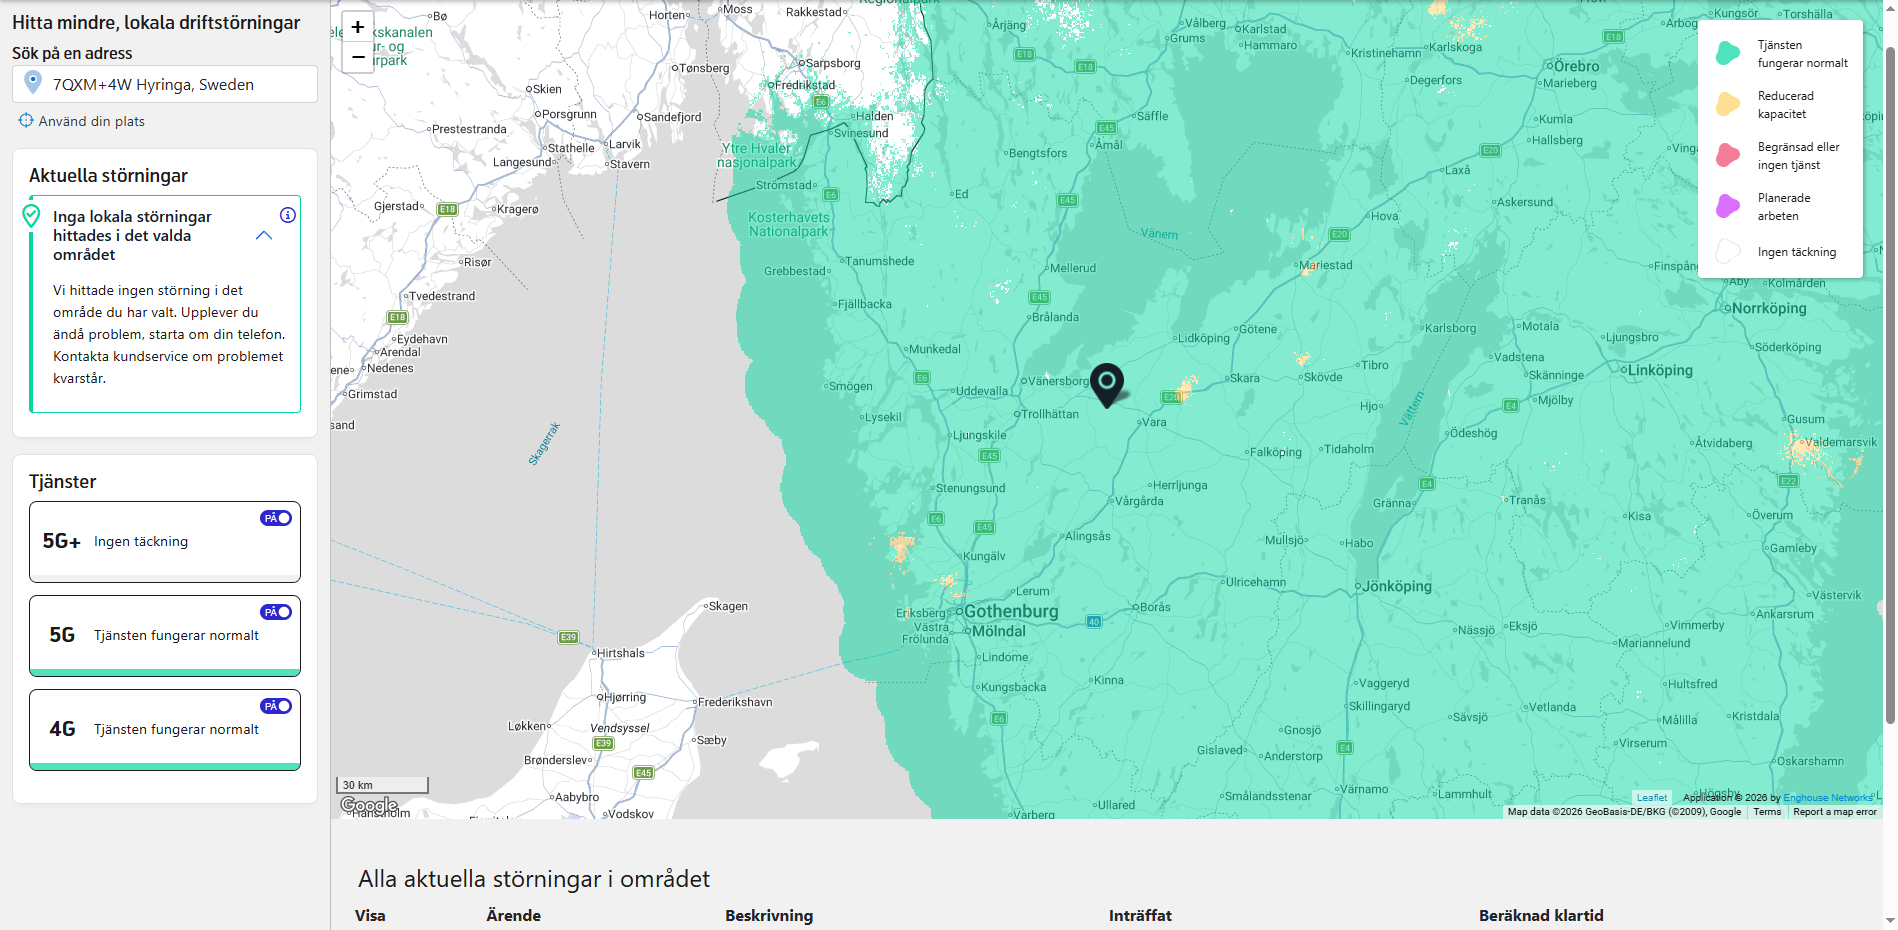
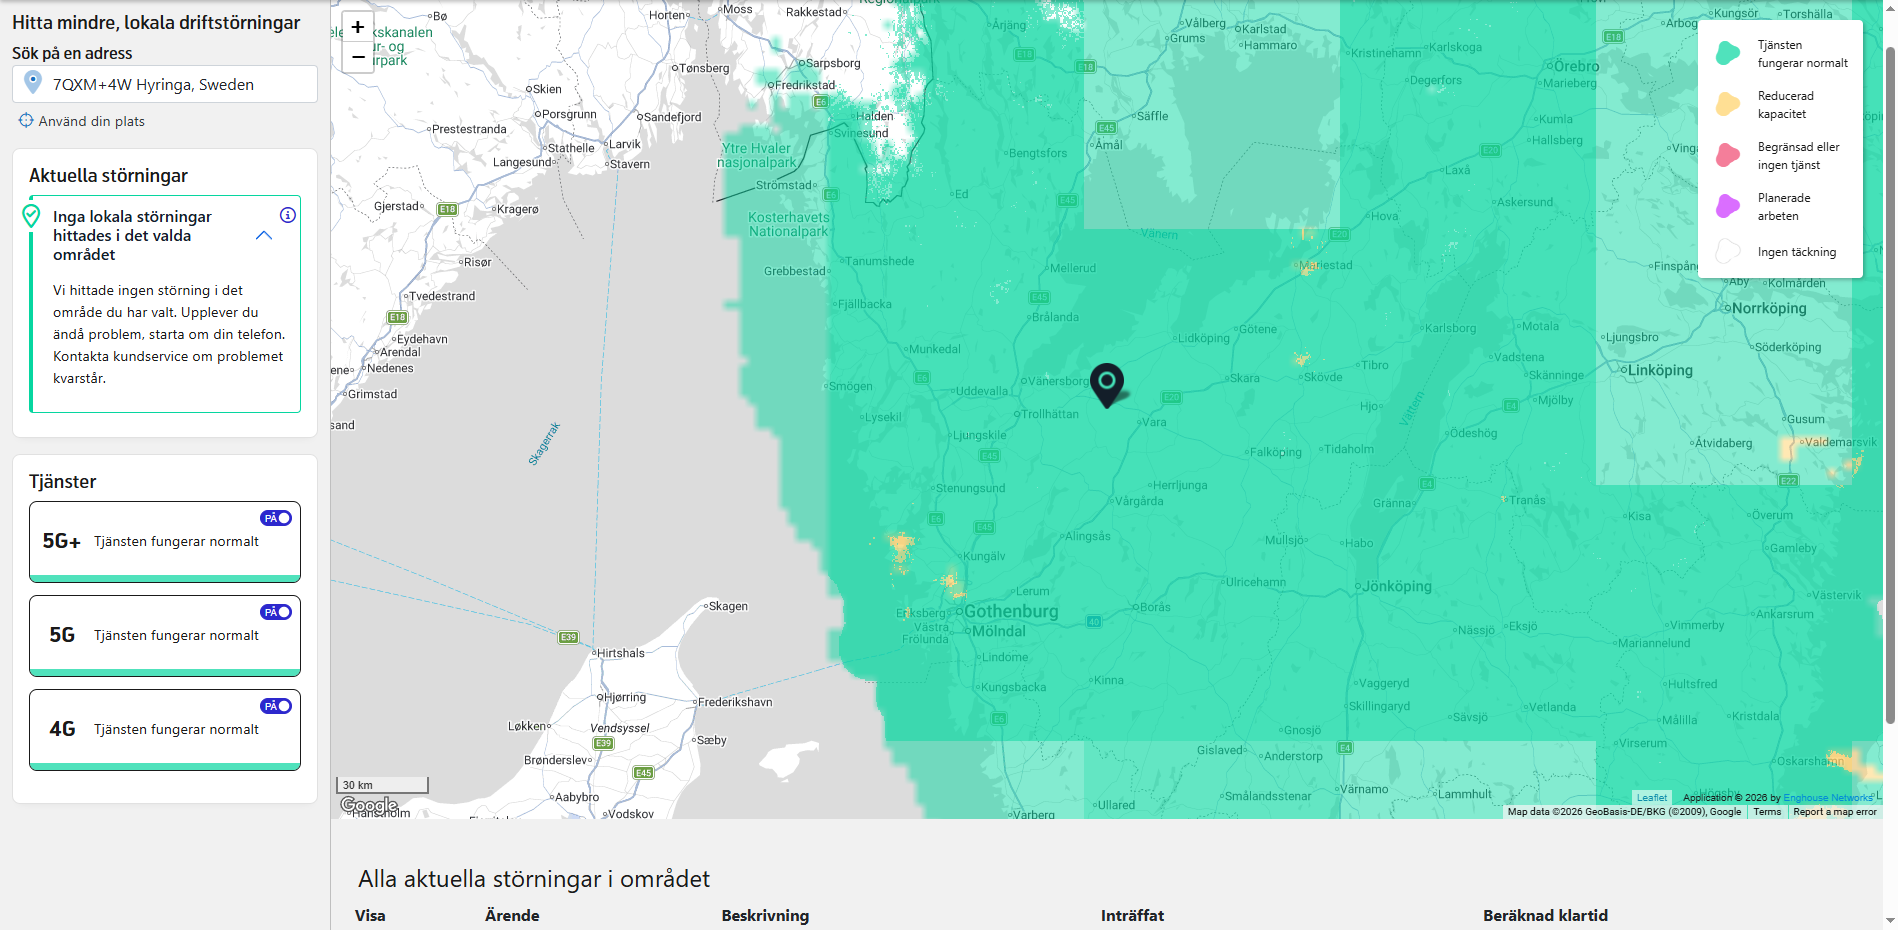
feat: implement frontend dashboard infrastructure including FilterBar, Analytics, and API integration with updated backend verification logic

diff --git a/frontend/src/app/outages/[id]/page.js b/frontend/src/app/outages/[id]/page.js
@@ -7,16 +7,15 @@ import { useLanguage } from "../../../context/LanguageContext";
 import { api } from "../../../lib/api";
 import {
     AlertCircle,
-    Calendar,
     Clock,
     CheckCircle2,
     Activity,
     MapPin,
     ShieldAlert,
     ChevronLeft,
-    Wrench,
-    ArrowRight
+    Wrench
 } from "lucide-react";
+import PropTypes from "prop-types";
 
 const LoadingState = () => (
     <div className="detail-page-loading">
@@ -73,6 +72,12 @@ const ErrorState = ({ error, lang, onBack }) => (
         `}</style>
     </div>
 );
+
+ErrorState.propTypes = {
+    error: PropTypes.string,
+    lang: PropTypes.string.isRequired,
+    onBack: PropTypes.func.isRequired
+};
 
 
 
@@ -141,6 +146,15 @@ const OutageTimeline = ({ outage, lang, hasUpdates, isResolved, hasEstimation, r
     </section>
 );
 
+OutageTimeline.propTypes = {
+    outage: PropTypes.object.isRequired,
+    lang: PropTypes.string.isRequired,
+    hasUpdates: PropTypes.bool,
+    isResolved: PropTypes.bool,
+    hasEstimation: PropTypes.bool,
+    resolutionDesc: PropTypes.string
+};
+
 const OutageSidebar = ({ outage, lang }) => (
     <aside className="details-sidebar">
         <div className="premium-card status-panel">
@@ -158,7 +172,7 @@ const OutageSidebar = ({ outage, lang }) => (
                     <span className="datum-sub">{new Date(outage.estimated_fix_time).toLocaleDateString()}</span>
                 </div>
             )}
-            <button className="btn-refresh" onClick={() => window.location.reload()}>
+            <button className="btn-refresh" onClick={() => globalThis.window.location.reload()}>
                 {lang === "sv" ? "Uppdatera" : "Refresh"}
             </button>
             {outage.source_url && (
@@ -169,6 +183,11 @@ const OutageSidebar = ({ outage, lang }) => (
         </div>
     </aside>
 );
+
+OutageSidebar.propTypes = {
+    outage: PropTypes.object.isRequired,
+    lang: PropTypes.string.isRequired
+};
 
 const OutageHero = ({ outage, t, lang, regionName }) => (
     <section className="premium-card hero-section">
@@ -208,7 +227,7 @@ const OutageHero = ({ outage, t, lang, regionName }) => (
             <div className="info-item">
                 <div className="info-header">
                     <Activity size={14} />
-                    <span className="info-label">{lang === "sv" ? "Status" : "Status"}</span>
+                    <span className="info-label">Status</span>
                 </div>
                 <span className="info-value">{outage.status}</span>
             </div>
@@ -231,6 +250,13 @@ const OutageHero = ({ outage, t, lang, regionName }) => (
         )}
     </section>
 );
+
+OutageHero.propTypes = {
+    outage: PropTypes.object.isRequired,
+    t: PropTypes.func.isRequired,
+    lang: PropTypes.string.isRequired,
+    regionName: PropTypes.string.isRequired
+};
 
 export default function OutageDetailPage() {
     const { id } = useParams();
@@ -274,7 +300,7 @@ export default function OutageDetailPage() {
         <div className="outage-detail-container animate-fade-in">
             <header className="detail-header">
                 <Link href="/" className="back-link">
-                    <ChevronLeft size={18} /> {lang === "sv" ? "Dashboard" : "Dashboard"}
+                    <ChevronLeft size={18} /> Dashboard
                 </Link>
                 <div className={`status-badge-detail status-${outage.status.toLowerCase()}`}>
                     <span className="dot"></span>

diff --git a/frontend/src/app/admin/page.js b/frontend/src/app/admin/page.js
@@ -351,29 +351,35 @@ const OutageRow = ({ o, lang, startEditing }) => {
         : fallbackText;
 
     return (
-        <tr className={`jsx-3261c0b2e58416a9 ${rowClass}`}>
-            <td className="jsx-3261c0b2e58416a9 id-cell">
+        <tr className={rowClass}>
+            <td className="id-cell">
                 #{o.id}
-                {o.quality_issues?.includes("missing_coords") && <span className="jsx-3261c0b2e58416a9 quality-tag" title="Missing Coordinates">📍</span>}
-                {o.quality_issues?.includes("missing_end_date") && <span className="jsx-3261c0b2e58416a9 quality-tag" title="Missing End Date">⏱️</span>}
+                {o.quality_issues?.includes("missing_coords") && <span className="quality-tag" title="Missing Coordinates">📍</span>}
+                {o.quality_issues?.includes("missing_end_date") && <span className="quality-tag" title="Missing End Date">⏱️</span>}
             </td>
-            <td className="jsx-3261c0b2e58416a9 op-cell">{o.operator_name}</td>
-            <td className="jsx-3261c0b2e58416a9 title-cell">{o.title[lang] || o.title['sv']}</td>
+            <td className="op-cell">{o.operator_name}</td>
+            <td className="title-cell">{o.title[lang] || o.title['sv']}</td>
             <td>
-                <span className={`jsx-3261c0b2e58416a9 status-badge-mini ${o.status}`}>
+                <span className={`status-badge-mini ${o.status}`}>
                     {o.status}
                 </span>
             </td>
-            <td className={`jsx-3261c0b2e58416a9 coord-cell ${coordClass}`}>
+            <td className={`coord-cell ${coordClass}`}>
                 {coordText}
             </td>
-            <td className="jsx-3261c0b2e58416a9 actions-cell">
-                <button onClick={() => startEditing(o)} className="jsx-3261c0b2e58416a9 btn-edit">
+            <td className="actions-cell">
+                <button onClick={() => startEditing(o)} className="btn-edit">
                     {lang === "sv" ? "Redigera" : "Edit"}
                 </button>
             </td>
         </tr>
     );
+};
+
+OutageRow.propTypes = {
+    o: PropTypes.object.isRequired,
+    lang: PropTypes.string.isRequired,
+    startEditing: PropTypes.func.isRequired,
 };
 
 function OutageManagement({ outageMgr, lang }) {
@@ -568,7 +574,7 @@ function OutageManagement({ outageMgr, lang }) {
                     </button>
                 </div>
             </div>
-            <style jsx>{`
+            <style jsx global>{`
                 .admin-section { margin-bottom: 64px; }
                 .section-header-row { display: flex; justify-content: space-between; align-items: flex-end; flex-wrap: wrap; gap: 24px; margin-bottom: 32px; }
                 .section-title { margin-bottom: 24px; font-size: 1.4rem; font-weight: 700; color: var(--text-primary); }
@@ -597,6 +603,7 @@ function OutageManagement({ outageMgr, lang }) {
                 .row-low-quality:hover td { background: rgba(225, 29, 72, 0.08) !important; }
                 .quality-tag { margin-left: 8px; font-size: 1.1rem; vertical-align: middle; cursor: help; }
                 .text-error { color: var(--status-critical); font-weight: 800; }
+
                 .op-cell { font-weight: 800; color: var(--accent-primary); text-transform: capitalize; }
                 .id-cell { font-family: 'JetBrains Mono', monospace; color: var(--text-muted); font-size: 0.8rem; font-weight: 600; }
                 .title-cell { font-weight: 600; max-width: 300px; white-space: nowrap; overflow: hidden; text-overflow: ellipsis; color: var(--text-primary); }

diff --git a/frontend/src/components/Common/FilterBar.js b/frontend/src/components/Common/FilterBar.js
@@ -59,7 +59,7 @@ export default function FilterBar({
         filters.operators.length +
         filters.severities.length +
         (filters.search ? 1 : 0) +
-        (filters.status !== "all" ? 1 : 0);
+        (filters.status === "all" ? 0 : 1);
 
     return (
         <div className="filter-bar-wrapper">
@@ -100,7 +100,7 @@ export default function FilterBar({
                 <div className="filter-dropdown glass animate-slide-down">
                     <div className="filter-grid">
                         <div className="filter-group">
-                            <label>Status</label>
+                            <span className="filter-label">Status</span>
                             <div className="chip-group">
                                 {statuses.map(s => (
                                     <button
@@ -115,7 +115,7 @@ export default function FilterBar({
                         </div>
 
                         <div className="filter-group">
-                            <label>Operators</label>
+                            <span className="filter-label">Operators</span>
                             <div className="chip-group">
                                 {operators.map(op => (
                                     <button
@@ -130,7 +130,7 @@ export default function FilterBar({
                         </div>
 
                         <div className="filter-group">
-                            <label>Severity</label>
+                            <span className="filter-label">Severity</span>
                             <div className="chip-group">
                                 {severities.map(s => (
                                     <button
@@ -247,7 +247,7 @@ export default function FilterBar({
                     grid-template-columns: repeat(3, 1fr);
                     gap: 32px;
                 }
-                .filter-group label {
+                .filter-group .filter-label {
                     display: block;
                     font-size: 0.7rem;
                     text-transform: uppercase;
@@ -282,3 +282,9 @@ export default function FilterBar({
         </div>
     );
 }
+
+FilterBar.propTypes = {
+    operators: PropTypes.array,
+    onFilterChange: PropTypes.func,
+    initialFilters: PropTypes.object
+};

diff --git a/frontend/src/app/regions/page.js b/frontend/src/app/regions/page.js
@@ -25,6 +25,13 @@ export default function RegionsPage() {
 
     if (loading) return <div className="loading-container"><div className="spinner"></div></div>;
 
+    const getStatusText = (region) => {
+        if (region.outage_count > 0) {
+            return `${region.outage_count} ${lang === "sv" ? "aktiva incidenter" : "active incidents"}`;
+        }
+        return lang === "sv" ? "Inga störningar" : "No disruptions";
+    };
+
     return (
         <div className="regions-container animate-fade-in">
             <header className="page-header">
@@ -44,9 +51,7 @@ export default function RegionsPage() {
                             <div className="region-status">
                                 <span className={`status-dot ${region.outage_count > 0 ? "warning" : "stable"}`}></span>
                                 <span className="status-label">
-                                    {region.outage_count > 0
-                                        ? `${region.outage_count} ${lang === "sv" ? "aktiva incidenter" : "active incidents"}`
-                                        : (lang === "sv" ? "Inga störningar" : "No disruptions")}
+                                    {getStatusText(region)}
                                 </span>
                             </div>
                         </div>

diff --git a/frontend/src/components/Analytics/HistoricalTrend.js b/frontend/src/components/Analytics/HistoricalTrend.js
@@ -2,11 +2,12 @@
 
 import { LineChart, Line, XAxis, YAxis, CartesianGrid, Tooltip, ResponsiveContainer } from 'recharts';
 import { useLanguage } from '../../context/LanguageContext';
+import PropTypes from 'prop-types';
 
 export default function HistoricalTrend({ data }) {
     const { lang } = useLanguage();
 
-    if (!data || !data.trend || data.trend.length === 0) {
+    if (!data?.trend?.length) {
         return (
             <div className="empty-chart glass">
                 <p>{lang === "sv" ? "Ingen data tillgänglig" : "No data available"}</p>
@@ -102,3 +103,10 @@ export default function HistoricalTrend({ data }) {
         </div>
     );
 }
+
+HistoricalTrend.propTypes = {
+    data: PropTypes.shape({
+        trend: PropTypes.array,
+        total_count: PropTypes.number
+    })
+};

diff --git a/frontend/src/components/Map/Map.js b/frontend/src/components/Map/Map.js
@@ -41,14 +41,14 @@ const cityCoords = {
     "Göteborg": [57.7089, 11.9746],
     "Malmö": [55.6050, 13.0038],
     "Uppsala": [59.8586, 17.6389],
-    "Västerås": [59.6100, 16.5448],
+    "Västerås": [59.61, 16.5448],
     "Örebro": [59.2753, 15.2134],
     "Linköping": [58.4108, 15.6214],
     "Helsingborg": [56.0465, 12.6945],
     "Jönköping": [57.7826, 14.1618],
     "Norrköping": [58.5877, 16.1819],
     "Stockholms län": [59.3293, 18.0686],
-    "Västra Götalands län": [58.0, 13.0],
+    "Västra Götalands län": [58, 13],
     "Skåne län": [55.9, 13.5],
     "Uppsala län": [59.8586, 17.6389],
     "Östergötlands län": [58.4108, 15.6214],
@@ -60,9 +60,9 @@ const cityCoords = {
     "Hallands län": [56.8945, 12.8421],
     "Värmlands län": [59.4021, 13.5115],
     "Örebro län": [59.2753, 15.2134],
-    "Västmanlands län": [59.6100, 16.5448],
+    "Västmanlands län": [59.61, 16.5448],
     "Dalarnas län": [60.6749, 15.0784],
-    "Gävleborgs län": [61.0, 16.0],
+    "Gävleborgs län": [61, 16],
     "Västernorrlands län": [62.6315, 17.9386],
     "Jämtlands län": [63.1792, 14.6357],
     "Västerbottens län": [64.7507, 18.0542],
@@ -80,7 +80,7 @@ function HeatmapLayer({ points = [] }) {
     const map = useMap();
 
     useEffect(() => {
-        if (typeof window === "undefined") return;
+        if (typeof globalThis.window === "undefined") return;
         require("leaflet.heat");
 
         const container = map.getContainer();

diff --git a/frontend/src/lib/api.js b/frontend/src/lib/api.js
@@ -3,21 +3,21 @@ const AUTH_TOKEN_STORAGE_KEY = "telecom-outage-auth-token";
 let authToken = null;
 
 const loadStoredAuthToken = () => {
-    if (typeof window === "undefined") {
+    if (typeof globalThis.window === "undefined") {
         return null;
     }
-    return window.localStorage.getItem(AUTH_TOKEN_STORAGE_KEY);
+    return globalThis.window.localStorage.getItem(AUTH_TOKEN_STORAGE_KEY);
 };
 
 const persistAuthToken = (token) => {
-    if (typeof window === "undefined") {
+    if (typeof globalThis.window === "undefined") {
         return;
     }
 
     if (token) {
-        window.localStorage.setItem(AUTH_TOKEN_STORAGE_KEY, token);
+        globalThis.window.localStorage.setItem(AUTH_TOKEN_STORAGE_KEY, token);
     } else {
-        window.localStorage.removeItem(AUTH_TOKEN_STORAGE_KEY);
+        globalThis.window.localStorage.removeItem(AUTH_TOKEN_STORAGE_KEY);
     }
 };
 

diff --git a/verify_mttr.py b/verify_mttr.py
@@ -13,7 +13,7 @@ tre_id = cursor.fetchone()[0]
 # Calculate MTTR for last year (365 days) manually
 since_date = (datetime.now(timezone.utc) - timedelta(days=365)).strftime("%Y-%m-%d %H:%M:%S")
 
-cursor.execute(f"""
+cursor.execute("""
     SELECT start_time, end_time 
     FROM outages 
     WHERE operator_id = %s 

diff --git a/verify_mttr_absolute.py b/verify_mttr_absolute.py
@@ -12,7 +12,7 @@ tre_id = cursor.fetchone()[0]
 # Calculate MTTR for last year (365 days) manually with final logic
 since_date = (datetime.now(timezone.utc) - timedelta(days=365)).strftime("%Y-%m-%d %H:%M:%S")
 
-cursor.execute(f"""
+cursor.execute("""
     SELECT start_time, end_time, updated_at, status
     FROM outages 
     WHERE operator_id = %s 

diff --git a/verify_mttr_final.py b/verify_mttr_final.py
@@ -12,7 +12,7 @@ tre_id = cursor.fetchone()[0]
 # Calculate MTTR for last year (365 days) manually with fallback
 since_date = (datetime.now(timezone.utc) - timedelta(days=365)).strftime("%Y-%m-%d %H:%M:%S")
 
-cursor.execute(f"""
+cursor.execute("""
     SELECT start_time, end_time, updated_at, status
     FROM outages 
     WHERE operator_id = %s 